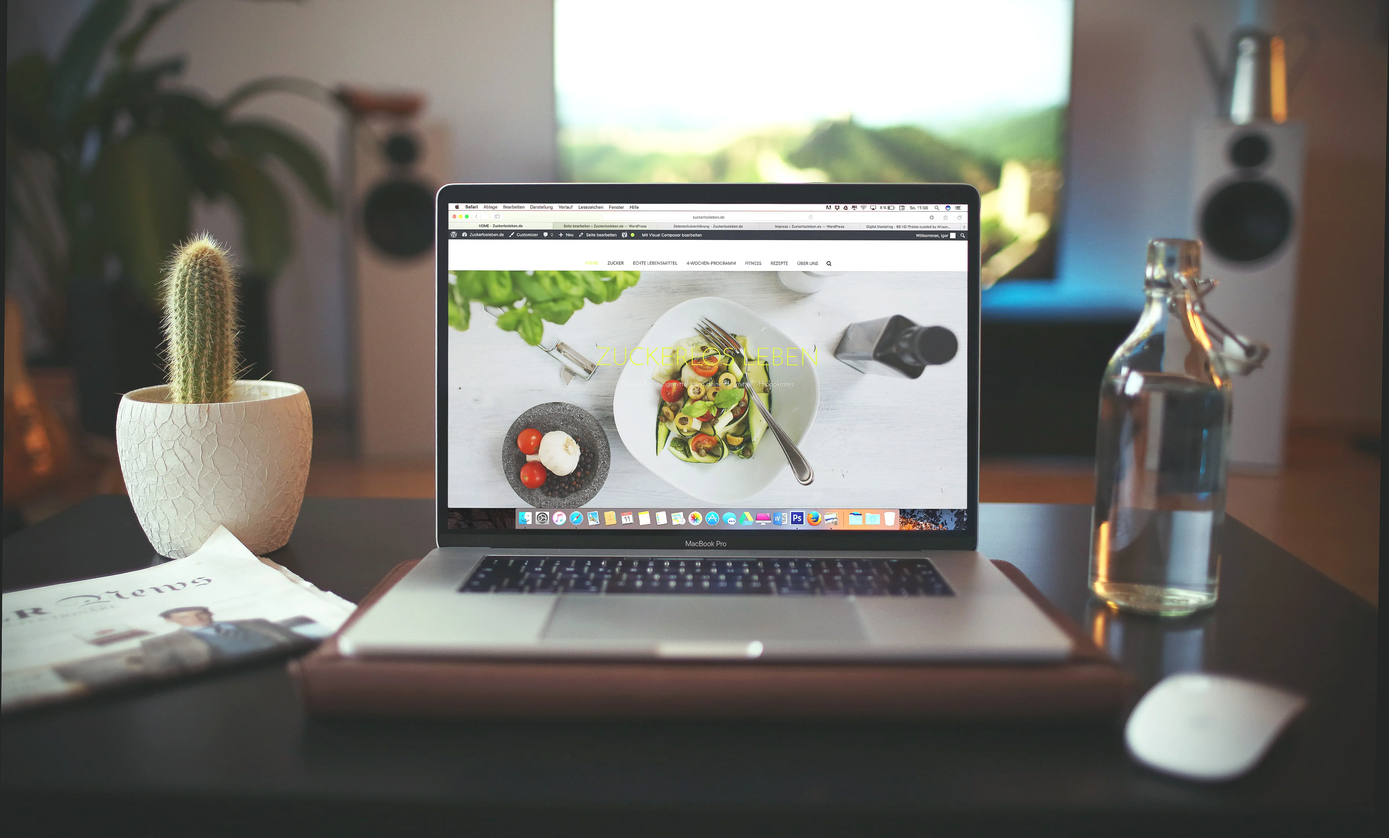
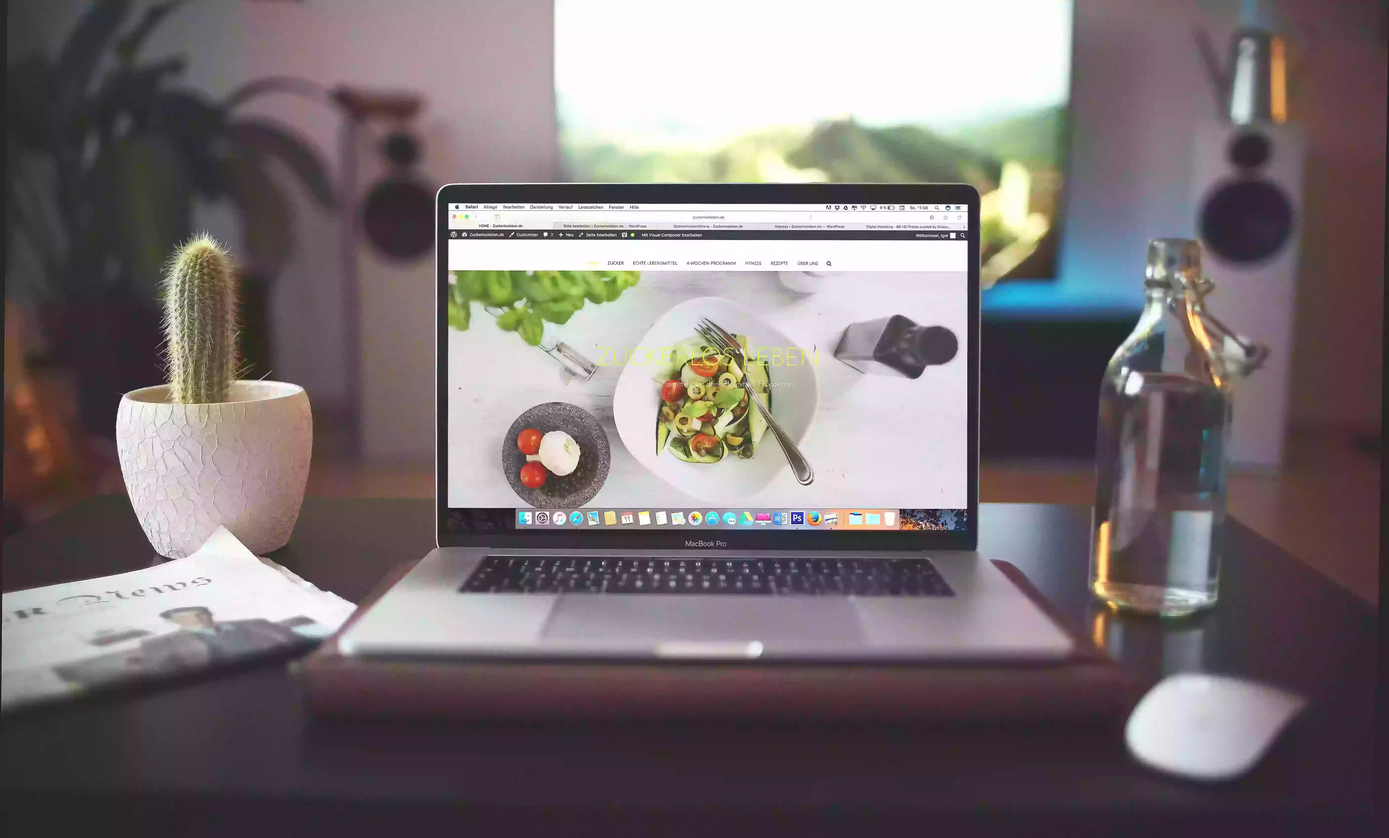
optimized images and made pwa

diff --git a/index.html b/index.html
@@ -6,12 +6,14 @@
     <meta name="viewport" content="width=device-width, initial-scale=1.0" />
     <title>John Bryan Pit M. Acaso</title>
     <link
+      defer
       href="https://cdn.jsdelivr.net/npm/bootstrap@5.2.2/dist/css/bootstrap.min.css"
       rel="stylesheet"
       integrity="sha384-Zenh87qX5JnK2Jl0vWa8Ck2rdkQ2Bzep5IDxbcnCeuOxjzrPF/et3URy9Bv1WTRi"
       crossorigin="anonymous"
     />
     <link
+      defer
       rel="stylesheet"
       href="https://cdn.jsdelivr.net/npm/bootstrap-icons@1.9.1/font/bootstrap-icons.css"
     />
@@ -41,8 +43,12 @@
     />
     <meta name="msapplication-TileColor" content="#da532c" />
     <meta name="theme-color" content="#ffffff" />
+
+    <!-- Manifest File link -->
+    <link rel="manifest" href="/site.webmanifest" />
   </head>
   <body>
+    <!-- TODO uncomment after testing -->
     <!-- Messenger Chat Plugin Code -->
     <div id="fb-root"></div>
 
@@ -147,24 +153,28 @@
               href="https://twitter.com/pit_casoy"
               target="_blank"
               class="twitter"
+              aria-label="My twitter"
               ><i class="bi bi-twitter"></i
             ></a>
             <a
               href="https://www.facebook.com/johnbryanpitcasoy"
               target="_blank"
               class="facebook"
+              aria-label="My facebook"
               ><i class="bi bi-facebook"></i
             ></a>
             <a
               href="https://www.instagram.com/johnbryanpit/"
               target="_blank"
               class="instagram"
+              aria-label="My instagram"
               ><i class="bi bi-instagram"></i
             ></a>
             <a
               href="https://www.linkedin.com/in/john-bryan-acaso-25721b157/"
               target="_blank"
               class="linkedin"
+              aria-label="My linkedin"
               ><i class="bi bi-linkedin"></i
             ></a>
 
@@ -172,6 +182,7 @@
               href="https://github.com/boogeymanCoder"
               target="_blank"
               class="github"
+              aria-label="My github"
               ><i class="bi bi-github"></i
             ></a>
           </div>
@@ -194,7 +205,11 @@
         <div class="container">
           <div class="row">
             <div class="col-md-6 col-lg-4">
-              <img class="img-fluid" src="/public/images/profile-img.webp" />
+              <img
+                class="img-fluid"
+                src="/public/images/profile-img.webp"
+                alt="Profile image"
+              />
             </div>
             <!-- Includes my personal information -->
             <div class="col-md-6 col-lg-8">
@@ -905,6 +920,7 @@
                           frameborder="0"
                           style="border: 0"
                           allowfullscreen
+                          title="locationMap"
                         ></iframe>
                       </div>
                     </div>
@@ -977,25 +993,32 @@
       </figure>
 
       <div class="social-links">
-        <a href="https://twitter.com/pit_casoy" target="_blank" class="twitter"
+        <a
+          href="https://twitter.com/pit_casoy"
+          target="_blank"
+          class="twitter"
+          aria-label="My twitter"
           ><i class="bi bi-twitter"></i
         ></a>
         <a
           href="https://www.facebook.com/johnbryanpitcasoy"
           target="_blank"
           class="facebook"
+          aria-label="My facebook"
           ><i class="bi bi-facebook"></i
         ></a>
         <a
           href="https://www.instagram.com/johnbryanpit/"
           target="_blank"
           class="instagram"
+          aria-label="My instagram"
           ><i class="bi bi-instagram"></i
         ></a>
         <a
           href="https://www.linkedin.com/in/john-bryan-acaso-25721b157/"
           target="_blank"
           class="linkedin"
+          aria-label="My linkedin"
           ><i class="bi bi-linkedin"></i
         ></a>
 
@@ -1003,10 +1026,29 @@
           href="https://github.com/boogeymanCoder"
           target="_blank"
           class="github"
+          aria-label="My github"
           ><i class="bi bi-github"></i
         ></a>
       </div>
     </footer>
+
+    <!-- Script for Service Worker -->
+    <script>
+      window.addEventListener("load", () => {
+        registerSW();
+      });
+
+      // Register the Service Worker
+      async function registerSW() {
+        if ("serviceWorker" in navigator) {
+          try {
+            await navigator.serviceWorker.register("serviceworker.js");
+          } catch (e) {
+            console.log("SW registration failed");
+          }
+        }
+      }
+    </script>
 
     <!-- Bootstrap CDN -->
     <script

diff --git a/serviceworker.js b/serviceworker.js
@@ -1,0 +1,19 @@
+var staticCacheName = "pwa";
+
+self.addEventListener("install", function (e) {
+  e.waitUntil(
+    caches.open(staticCacheName).then(function (cache) {
+      return cache.addAll(["/"]);
+    })
+  );
+});
+
+self.addEventListener("fetch", function (event) {
+  console.log(event.request.url);
+
+  event.respondWith(
+    caches.match(event.request).then(function (response) {
+      return response || fetch(event.request);
+    })
+  );
+});
